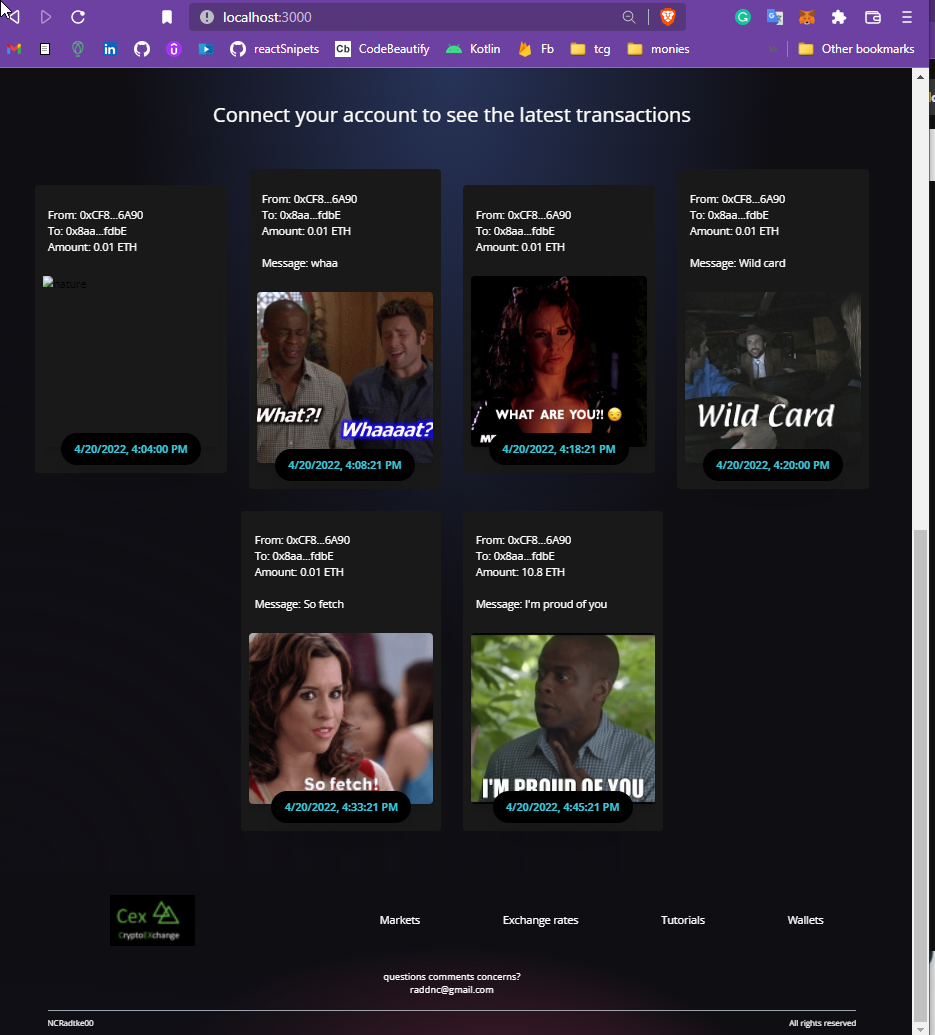
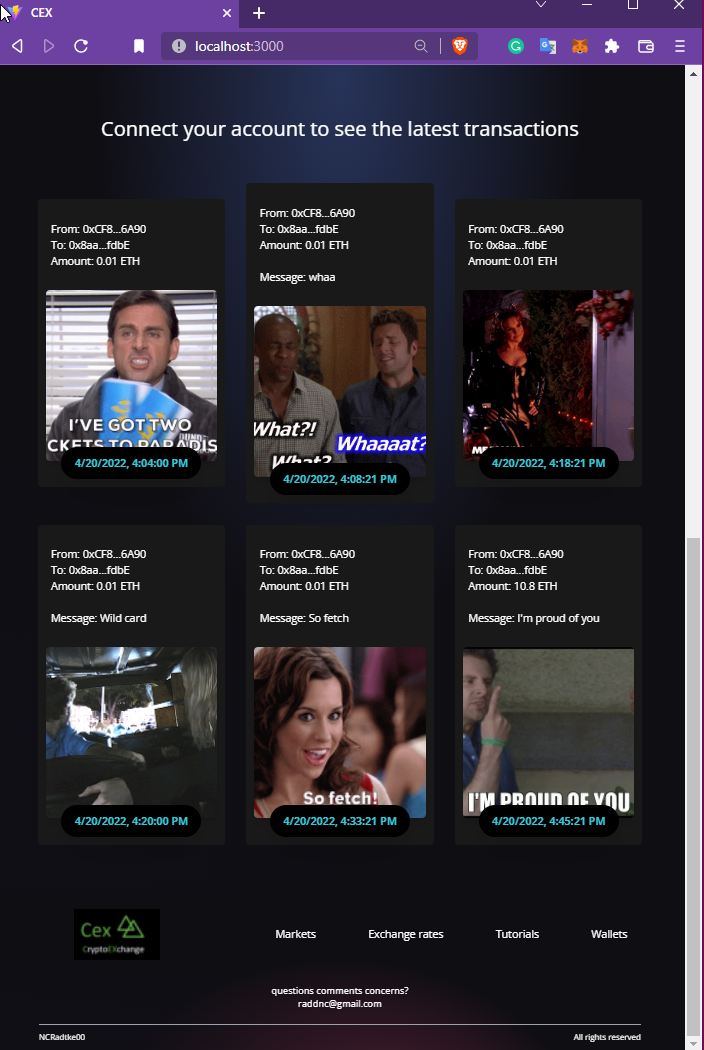
updated readme

diff --git a/client/src/utils/dummyData.js b/client/src/utils/dummyData.js
@@ -46,7 +46,7 @@ export default [
     },
     {
         id: 6,
-        url: "https://giphy.com/clips/Lydia-Getachew-cardi-b-cardib-thats-suspicious-5oYJvtkl5R13IikfvT",
+        url: "https://media.giphy.com/media/mKklyHxxGDDa37zOuA/giphy.gif",
         message: "",
         timestamp: "4/20/2022, 4:04:00 PM",
         addressFrom: "0xCF8e569A97C423952DdFf902375C7C76549A6A90",
